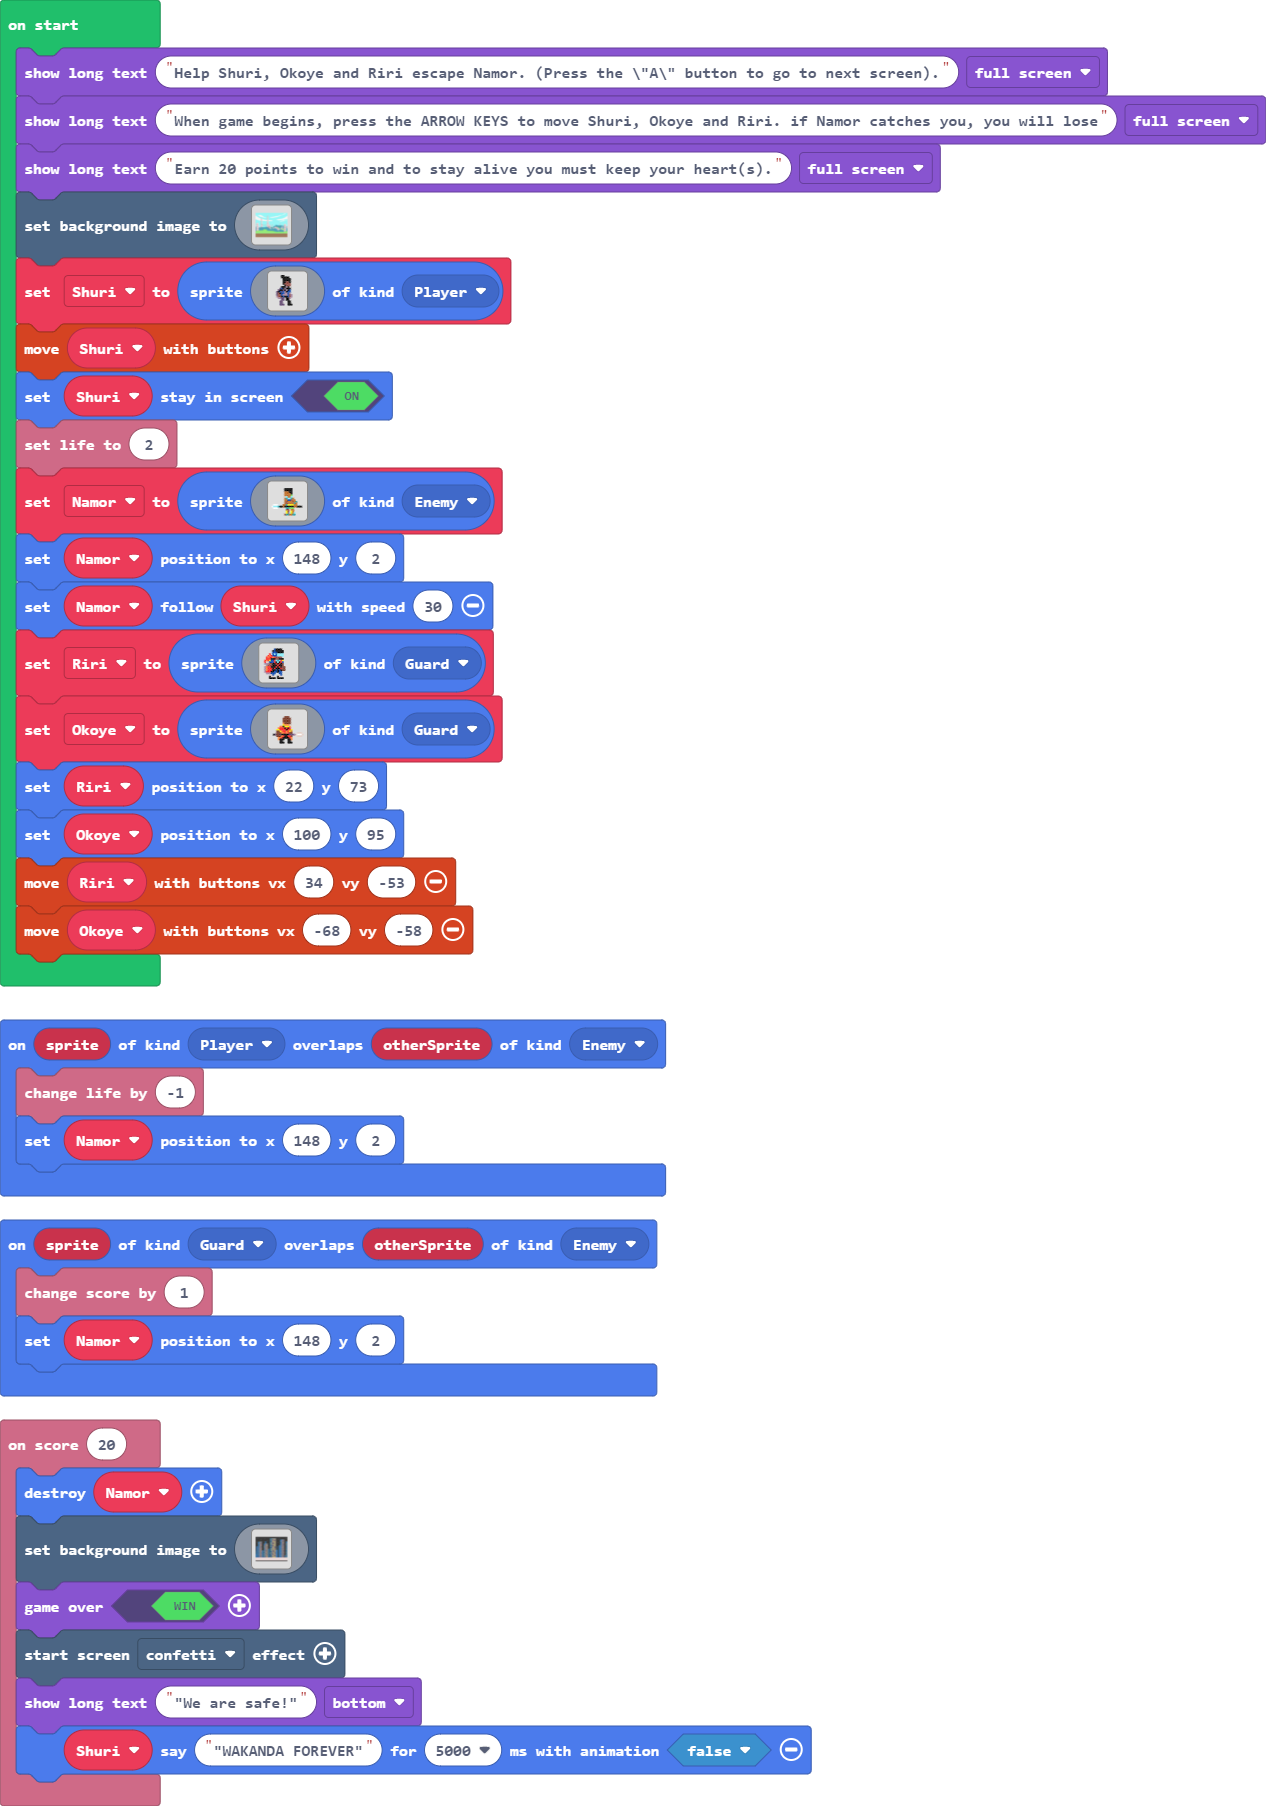
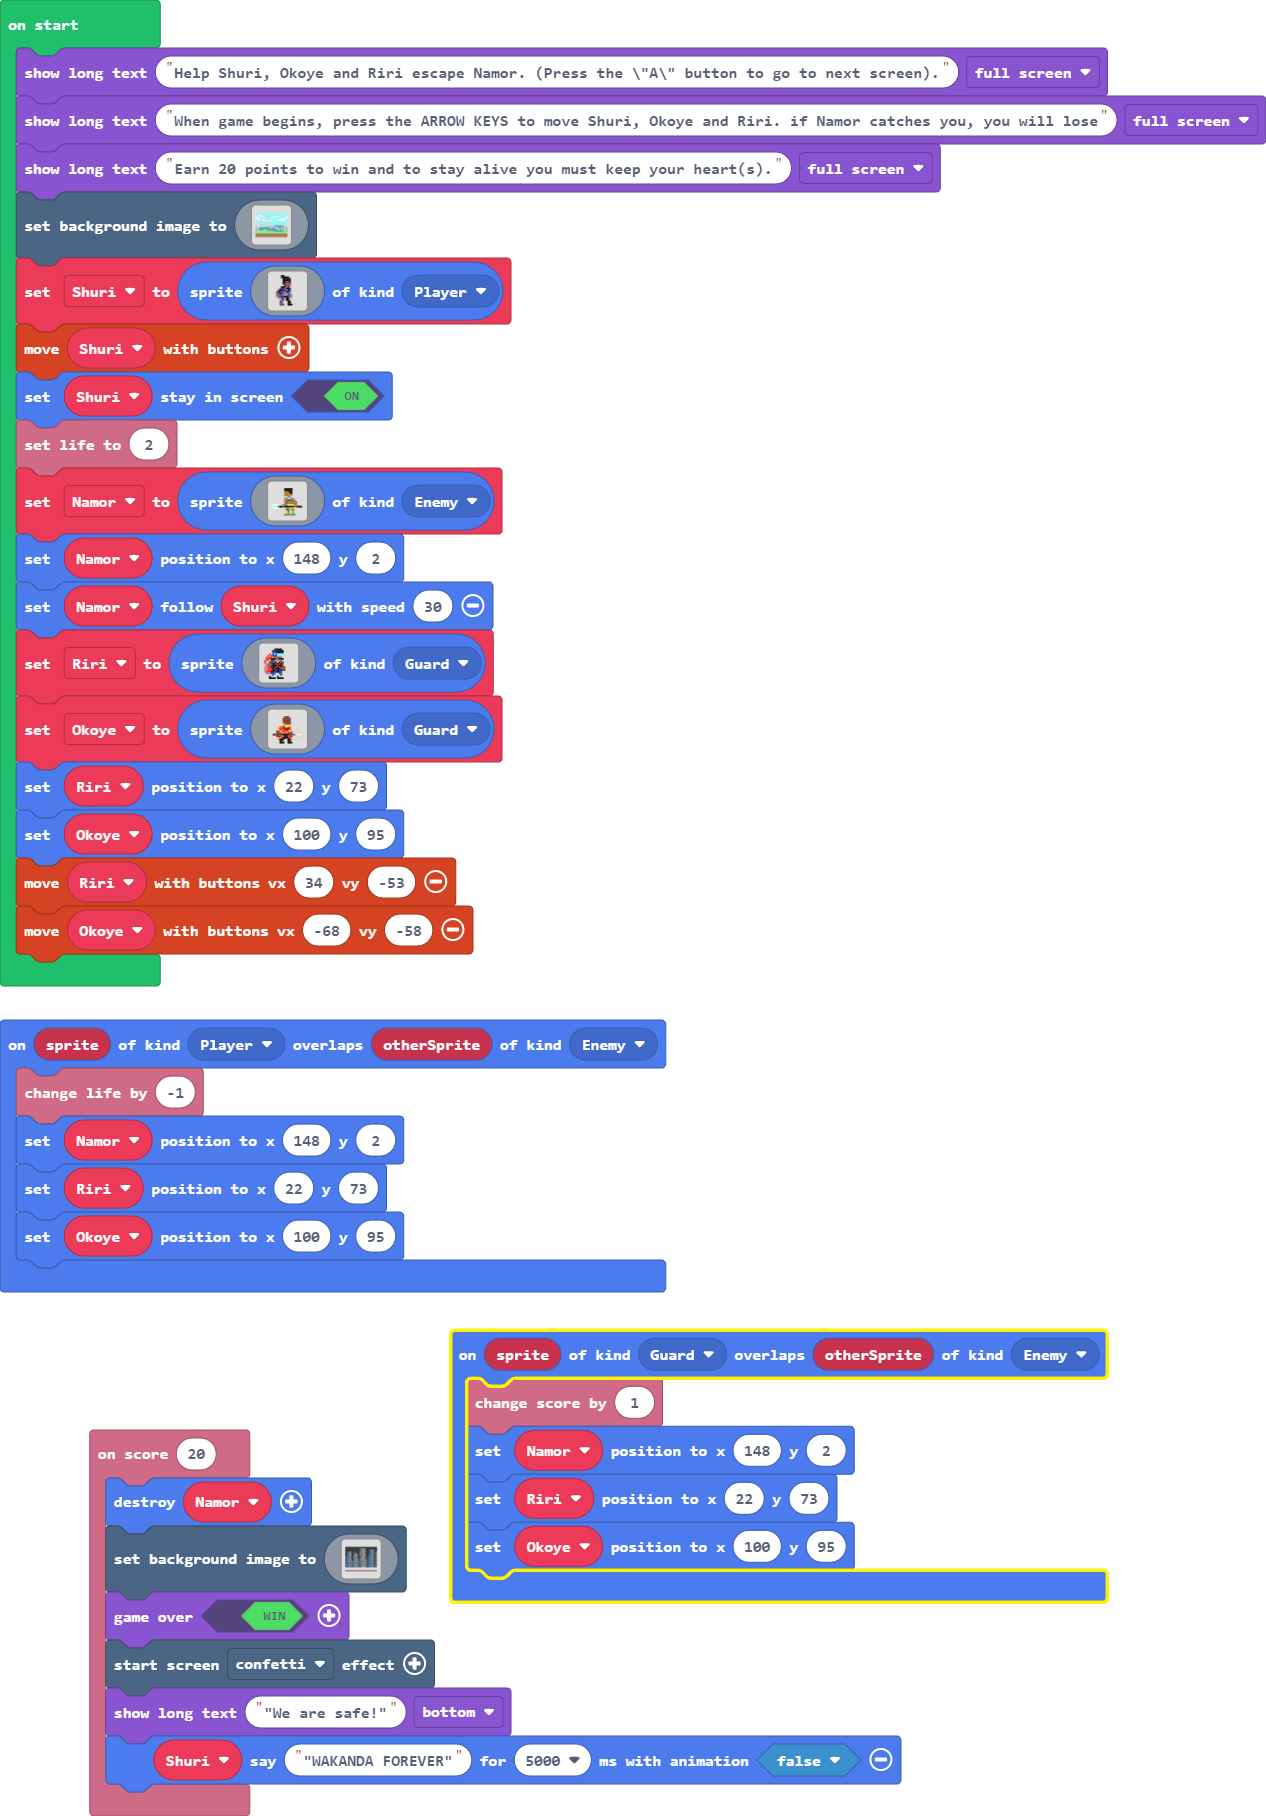
change guard position when scored

Changed region(s): [[0.0, 0.031, 0.8934, 1.0], [0.8934, 0.062, 0.9858, 0.093]]

diff --git a/main.ts b/main.ts
@@ -1,6 +1,8 @@
 sprites.onOverlap(SpriteKind.Guard, SpriteKind.Enemy, function (sprite, otherSprite) {
     info.changeScoreBy(1)
     Namor.setPosition(148, 2)
+    Riri.setPosition(22, 73)
+    Okoye.setPosition(100, 95)
 })
 info.onScore(20, function () {
     Namor.destroy()
@@ -13,7 +15,11 @@ info.onScore(20, function () {
 sprites.onOverlap(SpriteKind.Player, SpriteKind.Enemy, function (sprite, otherSprite) {
     info.changeLifeBy(-1)
     Namor.setPosition(148, 2)
+    Riri.setPosition(22, 73)
+    Okoye.setPosition(100, 95)
 })
+let Okoye: Sprite = null
+let Riri: Sprite = null
 let Namor: Sprite = null
 let Shuri: Sprite = null
 game.showLongText("Help Shuri, Okoye and Riri escape Namor. (Press the \\\"A\\\" button to go to next screen).", DialogLayout.Full)
@@ -27,8 +33,8 @@ info.setLife(2)
 Namor = sprites.create(assets.image`namor`, SpriteKind.Enemy)
 Namor.setPosition(148, 2)
 Namor.follow(Shuri, 30)
-let Riri = sprites.create(assets.image`riri`, SpriteKind.Guard)
-let Okoye = sprites.create(assets.image`okoye`, SpriteKind.Guard)
+Riri = sprites.create(assets.image`riri`, SpriteKind.Guard)
+Okoye = sprites.create(assets.image`okoye`, SpriteKind.Guard)
 Riri.setPosition(22, 73)
 Okoye.setPosition(100, 95)
 controller.moveSprite(Riri, 34, -53)
